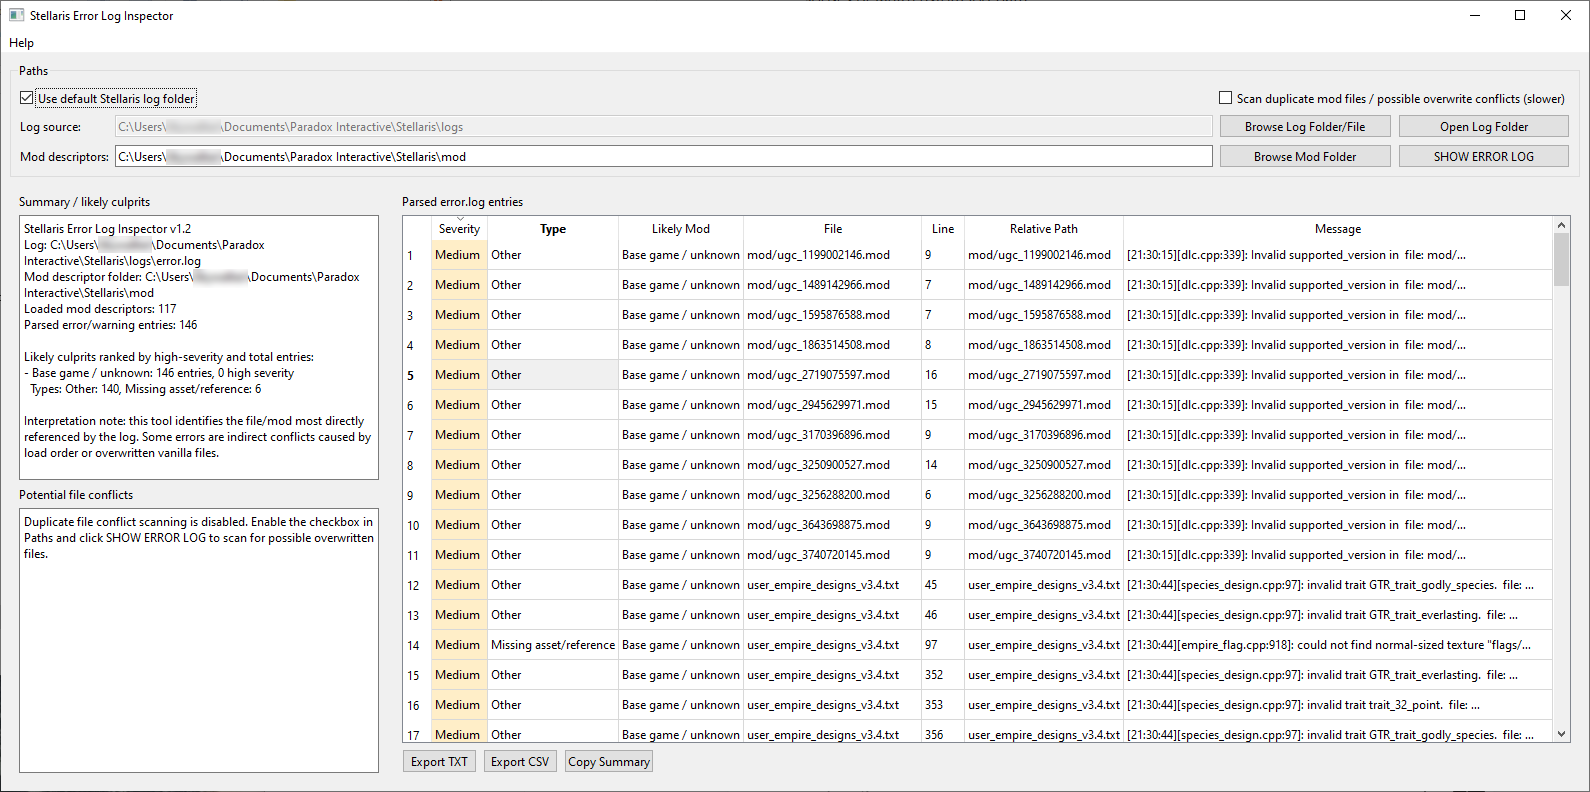
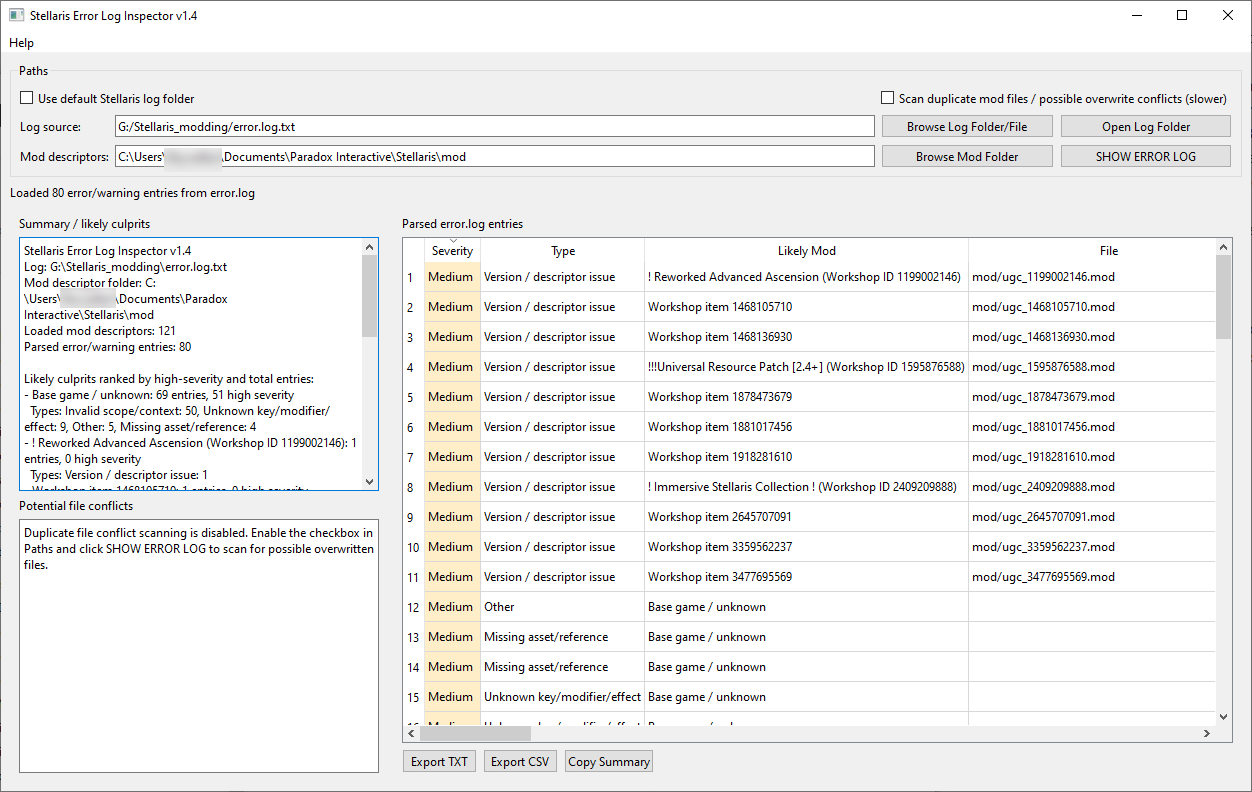
v1.4

Changed region(s): [[0.0, 0.2424, 0.9657, 1.0], [0.6853, 0.0, 1.0, 1.0], [0.0, 0.0, 0.3738, 0.2121]]

diff --git a/stellaris_error_log_inspector.py b/stellaris_error_log_inspector.py
@@ -41,7 +41,7 @@ from PyQt6.QtWidgets import (
 )
 
 APP_NAME = "Stellaris Error Log Inspector"
-APP_VERSION = "1.3"
+APP_VERSION = "1.4"
 
 COMMON_RELATIVE_ROOTS = (
     "common/",
@@ -59,12 +59,17 @@ COMMON_RELATIVE_ROOTS = (
 )
 
 ERROR_PATTERNS = [
-    ("Syntax / Unexpected token", re.compile(r"Unexpected token", re.I)),
-    ("Invalid scope/context", re.compile(r"Invalid context switch|invalid scope|Scope:", re.I)),
-    ("Missing asset/reference", re.compile(r"Could not find|not found|Missing|Failed to find|Unable to find", re.I)),
-    ("Unknown key/modifier/effect", re.compile(r"Unknown|Invalid .*modifier|Invalid .*effect|Invalid .*trigger", re.I)),
-    ("Localization", re.compile(r"locali[sz]ation|missing key|invalid key", re.I)),
-    ("Duplicate/conflict", re.compile(r"duplicate|already exists|overriding", re.I)),
+    # Specific, high-signal categories first. These beat generic "Invalid" / "Error" matches.
+    ("Version / descriptor issue", re.compile(r"supported_version|remote_file_id|descriptor|\.mod(?:\s|$)|mod/ugc_\d+\.mod", re.I)),
+    ("Component issue", re.compile(r"component template|component set|component slot|component_tag|ship design.*(?:component|slot|set)|invalid component", re.I)),
+    ("Ship design issue", re.compile(r"ship design|design \"|section template|ship_size|fleet_slot_size", re.I)),
+    ("Technology issue", re.compile(r"technology|tech_[A-Za-z0-9_]+|invalid tech|research", re.I)),
+    ("Localisation", re.compile(r"locali[sz]ation|missing key|invalid key|yml|l_[a-z_]+\.yml", re.I)),
+    ("Syntax / Unexpected token", re.compile(r"Unexpected token|Unexpected end|Expected token|Parser error", re.I)),
+    ("Invalid scope/context", re.compile(r"Invalid context switch|invalid scope|Scope:|wrong scope|event target", re.I)),
+    ("Missing asset/reference", re.compile(r"Could not find|not found|Missing|Failed to find|Unable to find|could not open|texture|sprite|dds|mesh|asset", re.I)),
+    ("Unknown key/modifier/effect", re.compile(r"Unknown|Invalid .*modifier|Invalid .*effect|Invalid .*trigger|Invalid .*key|Invalid .*value", re.I)),
+    ("Duplicate/conflict", re.compile(r"duplicate|already exists|overriding|redefined|conflict", re.I)),
     ("Script error", re.compile(r"Script Error|Error:", re.I)),
 ]
 
@@ -147,8 +152,8 @@ def extract_file_and_line(line: str) -> Tuple[str, str]:
         r'file:\s*"([^"]+)"',
         r'File:\s*"([^"]+)"',
         r'file:\s*([^,\s]+)',
+        r'((?:mod|common|events|locali[sz]ation|interface|gfx|sound|music|map|prescripted_countries|dlc)[\\/][^\"]+?\.(?:txt|gui|gfx|asset|yml|mod|dds|ogg|wav))',
         r'([A-Za-z]:[\\/][^\"]+?\.(?:txt|gui|gfx|asset|yml|mod|dds|ogg|wav))',
-        r'((?:common|events|locali[sz]ation|interface|gfx|sound|music|map|prescripted_countries)[\\/][^\"]+?\.(?:txt|gui|gfx|asset|yml|dds|ogg|wav))',
     ]
     for pat in patterns:
         m = re.search(pat, line, re.I)
@@ -177,7 +182,25 @@ def extract_relative_path(file_path: str) -> str:
     return cleaned
 
 
+def extract_workshop_id(*values: str) -> str:
+    """Return a Steam Workshop ID found in common Stellaris log path formats."""
+    joined = " ".join(v for v in values if v)
+    norm = normalize_slashes(joined).lower()
+    patterns = [
+        r"mod/ugc_(\d+)\.mod",
+        r"ugc_(\d+)\.mod",
+        r"(?:workshop/content/281990/|steamapps/workshop/content/281990/)(\d+)",
+        r"remote_file_id\s*=\s*\"?(\d+)\"?",
+    ]
+    for pat in patterns:
+        m = re.search(pat, norm, re.I)
+        if m:
+            return m.group(1)
+    return ""
+
+
 def classify_error(line: str) -> str:
+    # Use the descriptive text in the log line whenever possible.
     for label, pattern in ERROR_PATTERNS:
         if pattern.search(line):
             return label
@@ -185,20 +208,29 @@ def classify_error(line: str) -> str:
 
 
 def severity_for(error_type: str, line: str) -> str:
-    if error_type in {"Syntax / Unexpected token", "Invalid scope/context"}:
+    if error_type in {"Syntax / Unexpected token", "Invalid scope/context", "Component issue"}:
         return "High"
-    if error_type in {"Unknown key/modifier/effect", "Missing asset/reference"}:
+    if error_type in {"Version / descriptor issue", "Unknown key/modifier/effect", "Missing asset/reference", "Ship design issue", "Technology issue"}:
         return "Medium"
     if "warning" in line.lower():
         return "Low"
     return "Medium"
 
 
-def map_error_to_mod(file_path: str, relative_path: str, mods: List[ModInfo]) -> Tuple[str, str]:
-    if not file_path and not relative_path:
+def map_error_to_mod(file_path: str, relative_path: str, mods: List[ModInfo], raw_line: str = "") -> Tuple[str, str]:
+    if not file_path and not relative_path and not raw_line:
         return "Base game / unknown", ""
     norm_file = normalize_slashes(file_path).lower()
     rel = normalize_slashes(relative_path).lower()
+
+    # Direct mod descriptor reference, e.g. mod/ugc_1199002146.mod.
+    wid = extract_workshop_id(file_path, relative_path, raw_line)
+    if wid:
+        for mod in mods:
+            descriptor_id = extract_workshop_id(str(mod.descriptor_path))
+            if mod.remote_file_id == wid or descriptor_id == wid:
+                return f"{mod.name} (Workshop ID {wid})", str(mod.content_path or mod.descriptor_path)
+        return f"Workshop item {wid}", ""
 
     # Direct path containment.
     for mod in mods:
@@ -244,7 +276,7 @@ def parse_error_log(error_log: Path, mods: List[ModInfo]) -> List[ParsedError]:
         rel = extract_relative_path(file_path)
         etype = classify_error(raw)
         sev = severity_for(etype, raw)
-        mod_name, mod_path = map_error_to_mod(file_path, rel, mods)
+        mod_name, mod_path = map_error_to_mod(file_path, rel, mods, raw)
         results.append(ParsedError(sev, etype, raw.strip(), file_path, rel, line_no, mod_name, mod_path))
     return results
 